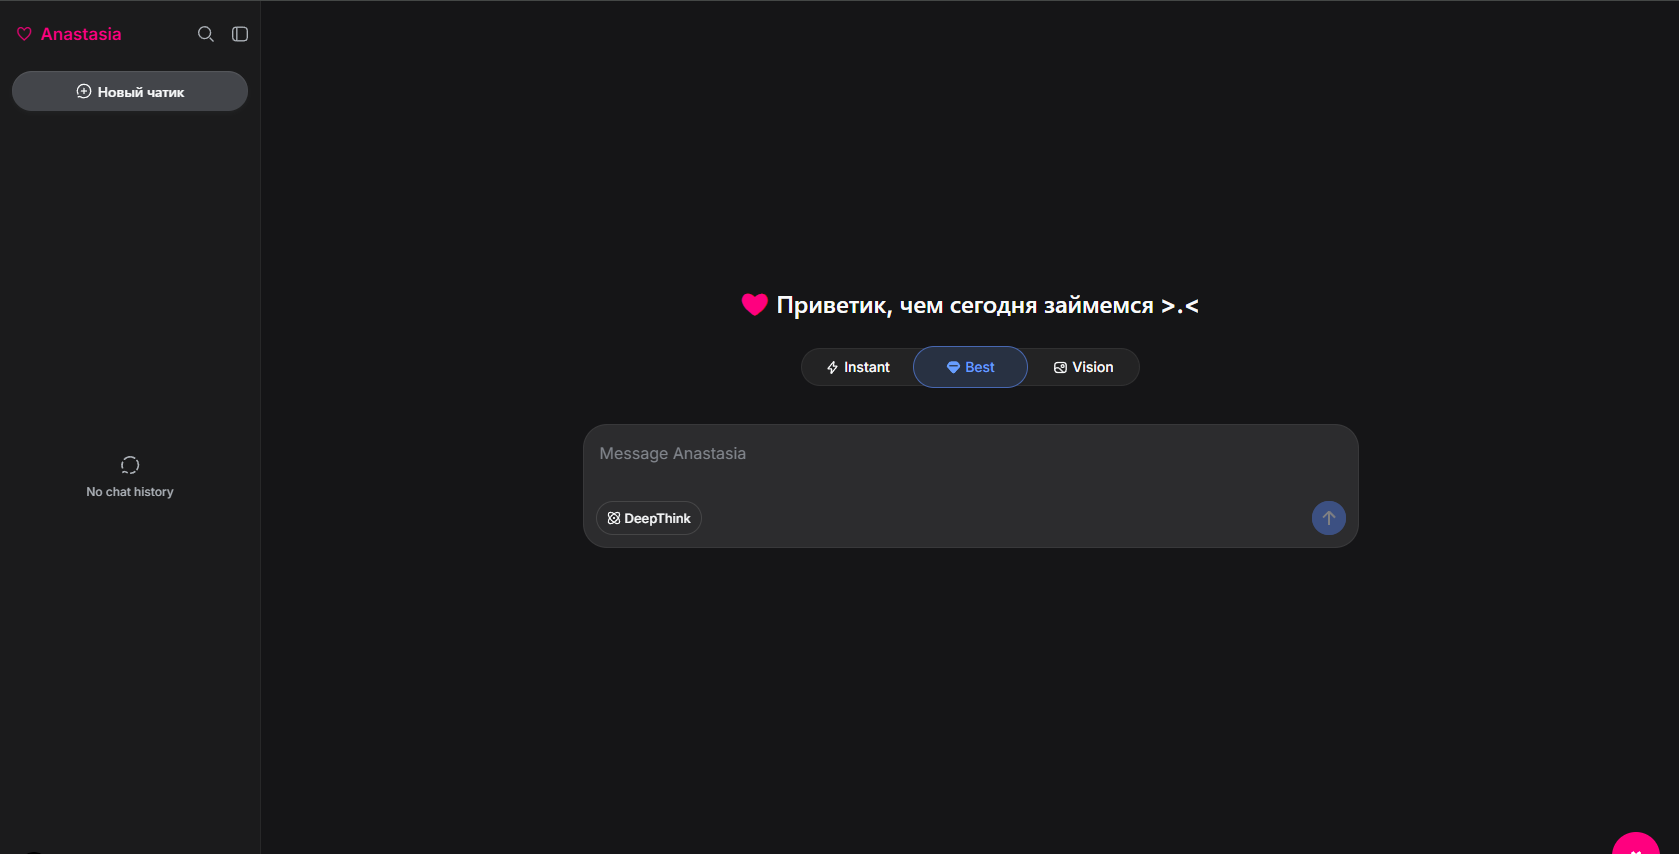
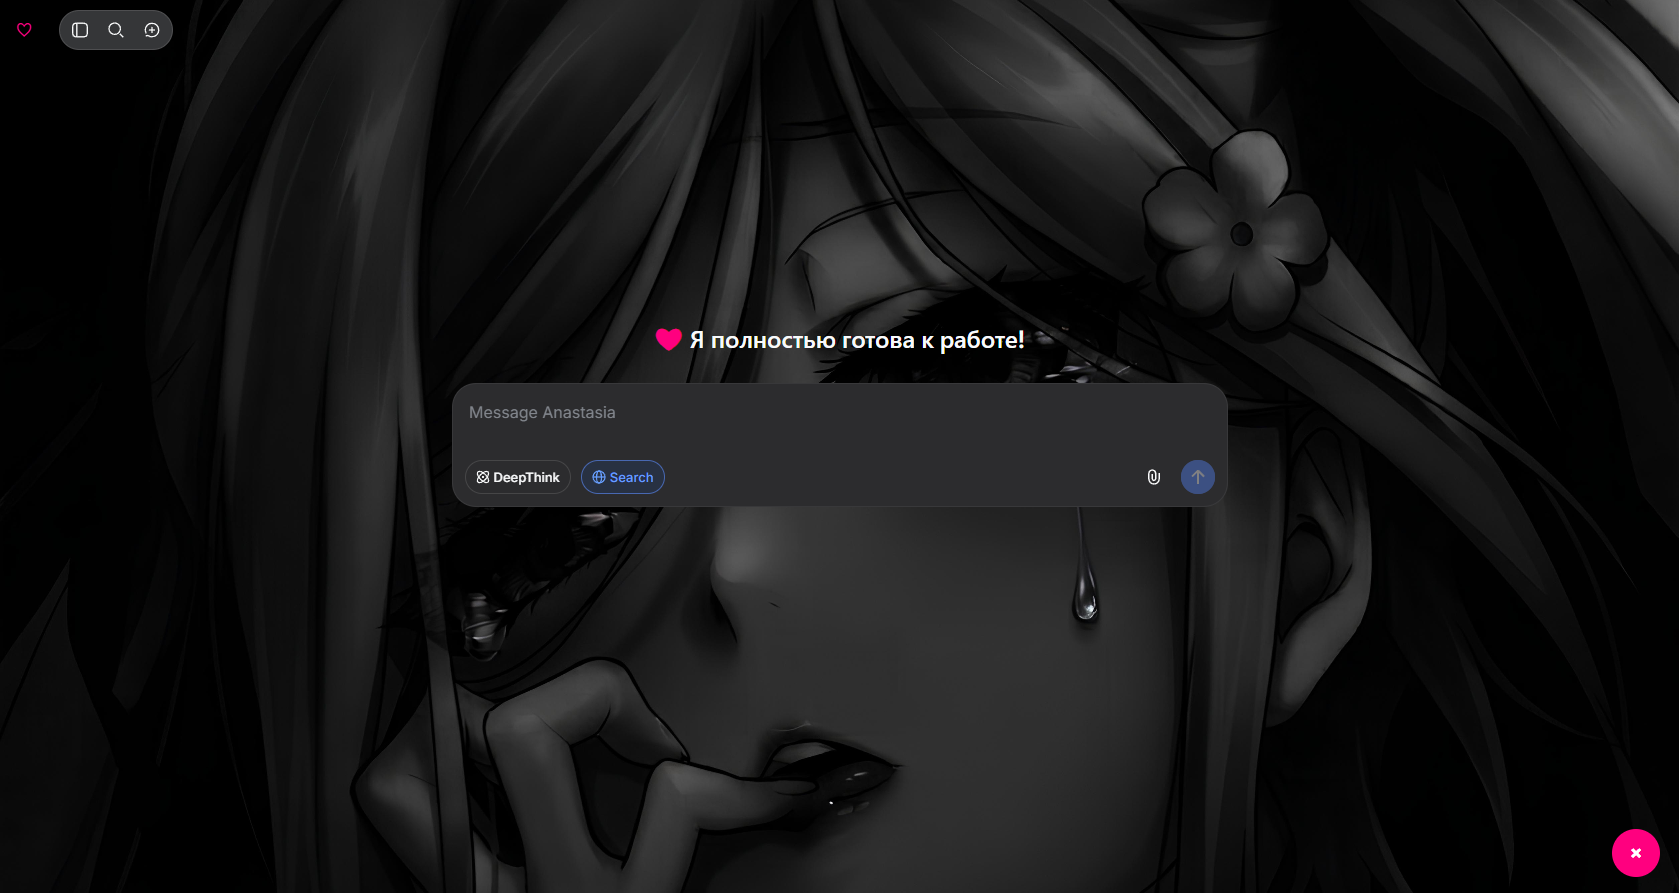
начало положено кастомизации

diff --git a/content.js b/content.js
@@ -220,6 +220,89 @@ function restoreHearts() {
     heartSwaps = [];
 }
 
+let bgStyleEl = null;
+
+function applyBackground() {
+    if (bgStyleEl) return;
+
+    const url = chrome.runtime.getURL("AnastasiaFon.png");
+    if (!url) return;
+
+    bgStyleEl = document.createElement("style");
+    bgStyleEl.id = "anastasia-bg";
+
+    bgStyleEl.textContent =
+        'html.anastasia-mode {' +
+        '  background: url("' + url + '") no-repeat center center fixed !important;' +
+        '  background-size: cover !important;' +
+        '}' +
+        'html.anastasia-mode body, ' +
+        'html.anastasia-mode .ds-scroll-area, ' +
+        'html.anastasia-mode [class*="ds-scroll-area"], ' +
+        'html.anastasia-mode [class*="ds-virtual-list-items"], ' +
+        'html.anastasia-mode [class*="ds-scroll-area"] .ds-markdown, ' +
+        'html.anastasia-mode .ds-message {' +
+        '  background: transparent !important;' +
+        '}' +
+        'html.anastasia-mode body::after {' +
+        '  content: "" !important;' +
+        '  position: fixed !important;' +
+        '  inset: 0 !important;' +
+        '  background: rgba(0, 0, 0, 0.16) !important;' +
+        '  pointer-events: none !important;' +
+        '  z-index: 5 !important;' +
+        '}' +
+        'html.anastasia-mode .anastasia-heart, ' +
+        'html.anastasia-mode [data-anastasia-done] {' +
+        '  position: relative !important;' +
+        '  z-index: 6 !important;' +
+        '}' +
+        'html.anastasia-mode aside, ' +
+        'html.anastasia-mode header, ' +
+        'html.anastasia-mode [class*="sidebar"], ' +
+        'html.anastasia-mode [class*="input-area"], ' +
+        'html.anastasia-mode [class*="composer"], ' +
+        'html.anastasia-mode [class*="user-input"] {' +
+        '  background: rgba(255, 255, 255, 0.88) !important;' +
+        '}';
+
+    document.documentElement.appendChild(bgStyleEl);
+}
+
+function removeBackground() {
+    if (bgStyleEl && bgStyleEl.parentNode) {
+        bgStyleEl.parentNode.removeChild(bgStyleEl);
+    }
+
+    bgStyleEl = null;
+}
+
+let aiLabelObserver = null;
+
+function removeAILabels() {
+    for (const el of document.querySelectorAll('div')) {
+        if (el.textContent.trim() === 'AI-generated, for reference only') {
+            el.remove();
+        }
+    }
+}
+
+function startAILabelRemoval() {
+    removeAILabels();
+
+    if (!aiLabelObserver) {
+        aiLabelObserver = new MutationObserver(() => removeAILabels());
+        aiLabelObserver.observe(document.body, { childList: true, subtree: true });
+    }
+}
+
+function stopAILabelRemoval() {
+    if (aiLabelObserver) {
+        aiLabelObserver.disconnect();
+        aiLabelObserver = null;
+    }
+}
+
 function fixPlaceholder() {
     for (const ta of document.querySelectorAll("textarea")) {
         const ph = ta.getAttribute("placeholder");
@@ -275,7 +358,9 @@ function restoreRebrand() {
 
 function enterAnastasiaMode() {
     document.documentElement.classList.add(MODE_CLASS);
+    applyBackground();
     applyRebrand();
+    startAILabelRemoval();
     attachFetchInterceptor();
     fixPlaceholder();
 
@@ -312,11 +397,14 @@ function enterAnastasiaMode() {
 
 function exitAnastasiaMode() {
     document.documentElement.classList.remove(MODE_CLASS);
+    removeBackground();
 
     if (placeholderTimer) {
         clearInterval(placeholderTimer);
         placeholderTimer = null;
     }
+
+    stopAILabelRemoval();
 
     if (rebrandObserver) {
         rebrandObserver.disconnect();
